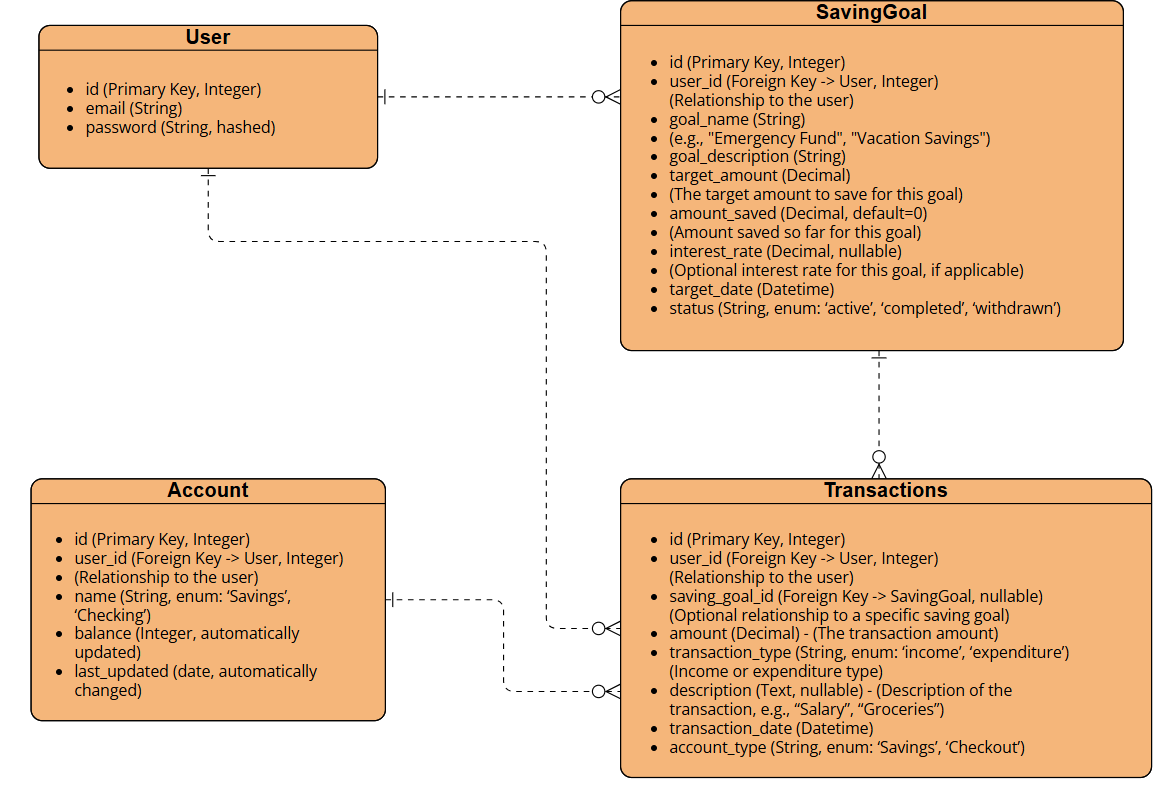
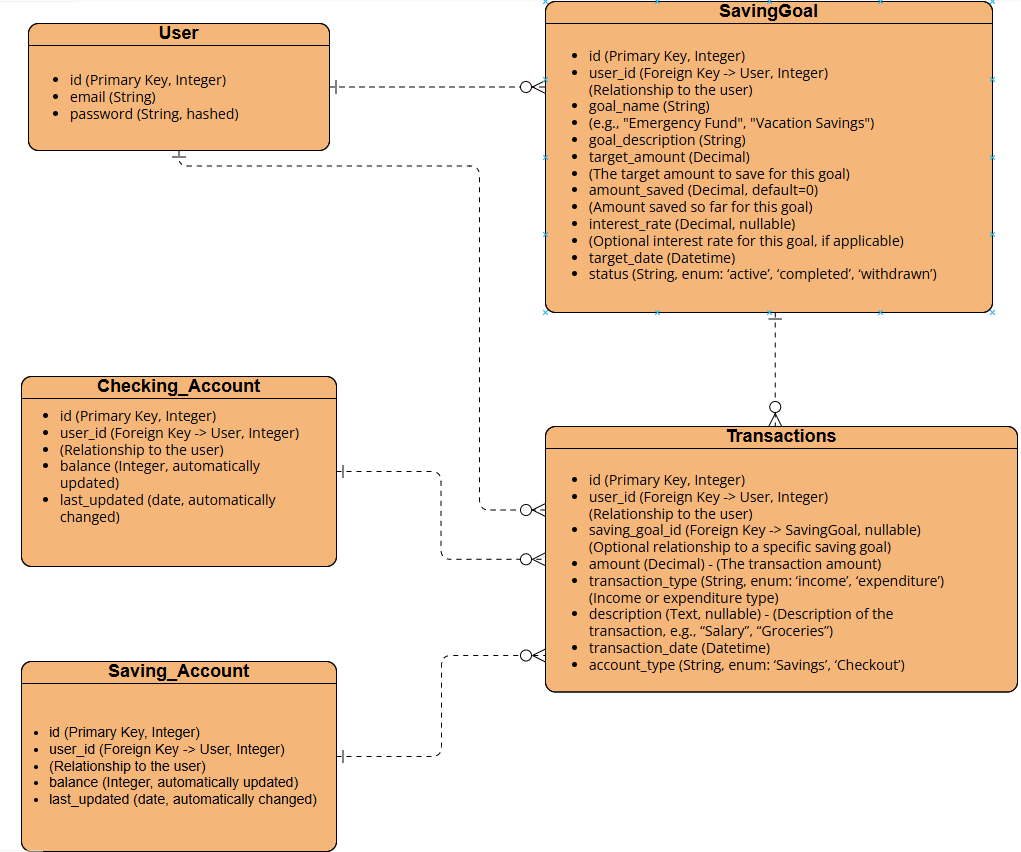
updated readme.md

diff --git a/main_app/templates/base.html b/main_app/templates/base.html
@@ -24,7 +24,7 @@
   </div>
  <nav>
   <ul>
-    <li class="{% if request.path == '/home/' %}active{% endif %}"><a href="{% url 'home' %}">Home</a></li>
+    <li class="{% if request.path == '/' %}active{% endif %}"><a href="{% url 'home' %}">Home</a></li>
     <li class="{% if request.path == '/goals/' %}active{% endif %}"><a href="{% url 'goal-index' %}">Goals</a></li>
     <li class="{% if request.path == '/transactions/' %}active{% endif %}"><a href="{% url 'transaction-index'  %}">Transactions</a></li>
     <li class="{% if request.path == '/accounts_balance/' %}active{% endif %}"><a href="{% url 'account-list'  %}">Accounts</a></li>

diff --git a/main_app/views.py b/main_app/views.py
@@ -96,6 +96,7 @@ def accounts_list(request):
 
 
 def goal_index(request):
+    # Fetch only the goals for the current logged-in user
     goals = Goal.objects.filter(user=request.user)
     for g in goals:
         try:
@@ -103,7 +104,6 @@ def goal_index(request):
         except Exception:
             g.progress = 0
     return render(request, 'goals/index.html', {'goals': goals})
-
 
 def goal_detail(request, goal_id):
     # Fetch the specific goal using the goal_id
@@ -184,24 +184,25 @@ class TransactionDetail(DetailView):
     model = Transaction
     template_name = 'main_app/transaction_detail.html'
     context_object_name = 'transaction'
-
-class TransactionUpdate(UpdateView):
+    
+class TransactionUpdate(LoginRequiredMixin, UpdateView):
     model = Transaction
     fields = ['name','transaction_type','description','saving_goal',
               'amount','saving_amount','checking_amount','transaction_date']
-    success_url = '/transactions/'  # Redirect to the transaction list after successful update
+    success_url = '/transactions/'
+
+    def get_queryset(self):
+        return Transaction.objects.filter(user=self.request.user)
 
     def form_valid(self, form):
-            
-            try:
-                form.save()  # This will call the model's save() method
-            except ValueError as e:
-                form.add_error('saving_amount', str(e))  # Add error to saving_amount field
-                form.add_error('checking_amount', str(e))  # Add error to checking_amount field
-                return self.form_invalid(form)  # Redisplay the form with errors
+        form.instance.user = self.request.user
+        try:
             return super().form_valid(form)
-            
-    
+        except ValueError as e:
+            form.add_error(None, str(e))
+            return self.form_invalid(form)
+        
+
 class TransactionDelete(DeleteView):
     model = Transaction
     success_url = '/transactions/'  # Redirect to the transaction list after successful deletion

diff --git a/README.md b/README.md
@@ -139,13 +139,18 @@ This model tracks every financial transaction (either income or expenditure):
 
 <br>
 
-**4. Accounts model**
+**4. Checking_Account model**
 
 This model tracks every financial transaction (either income or expenditure):
 
-- id (Primary Key, Integer)
-- user_id (Foreign Key -> User, Integer)
-(Relationship to the user)
+- name (String, enum: ‘Savings’, ‘Checking’)
+- balance (Integer, automatically updated)
+- last_updated (date, automatically changed)
+
+**5. Saving_Account model**
+
+This model tracks every financial transaction (either income or expenditure):
+
 - name (String, enum: ‘Savings’, ‘Checking’)
 - balance (Integer, automatically updated)
 - last_updated (date, automatically changed)
@@ -158,6 +163,10 @@ This model tracks every financial transaction (either income or expenditure):
 
 <br>
 
-## Project Structure 📂:
+### Figma 🎨
 
-(Will add it later too)
+(https://www.figma.com/design/QU6hWFrq6Ry3QQaCisAPIj/Untitled?node-id=0-1&t=Xpxll3Ms3TAV4Zg2-1)
+
+### Trello 📃
+
+https://trello.com/b/fCx1uhGm/project-4-python-django
